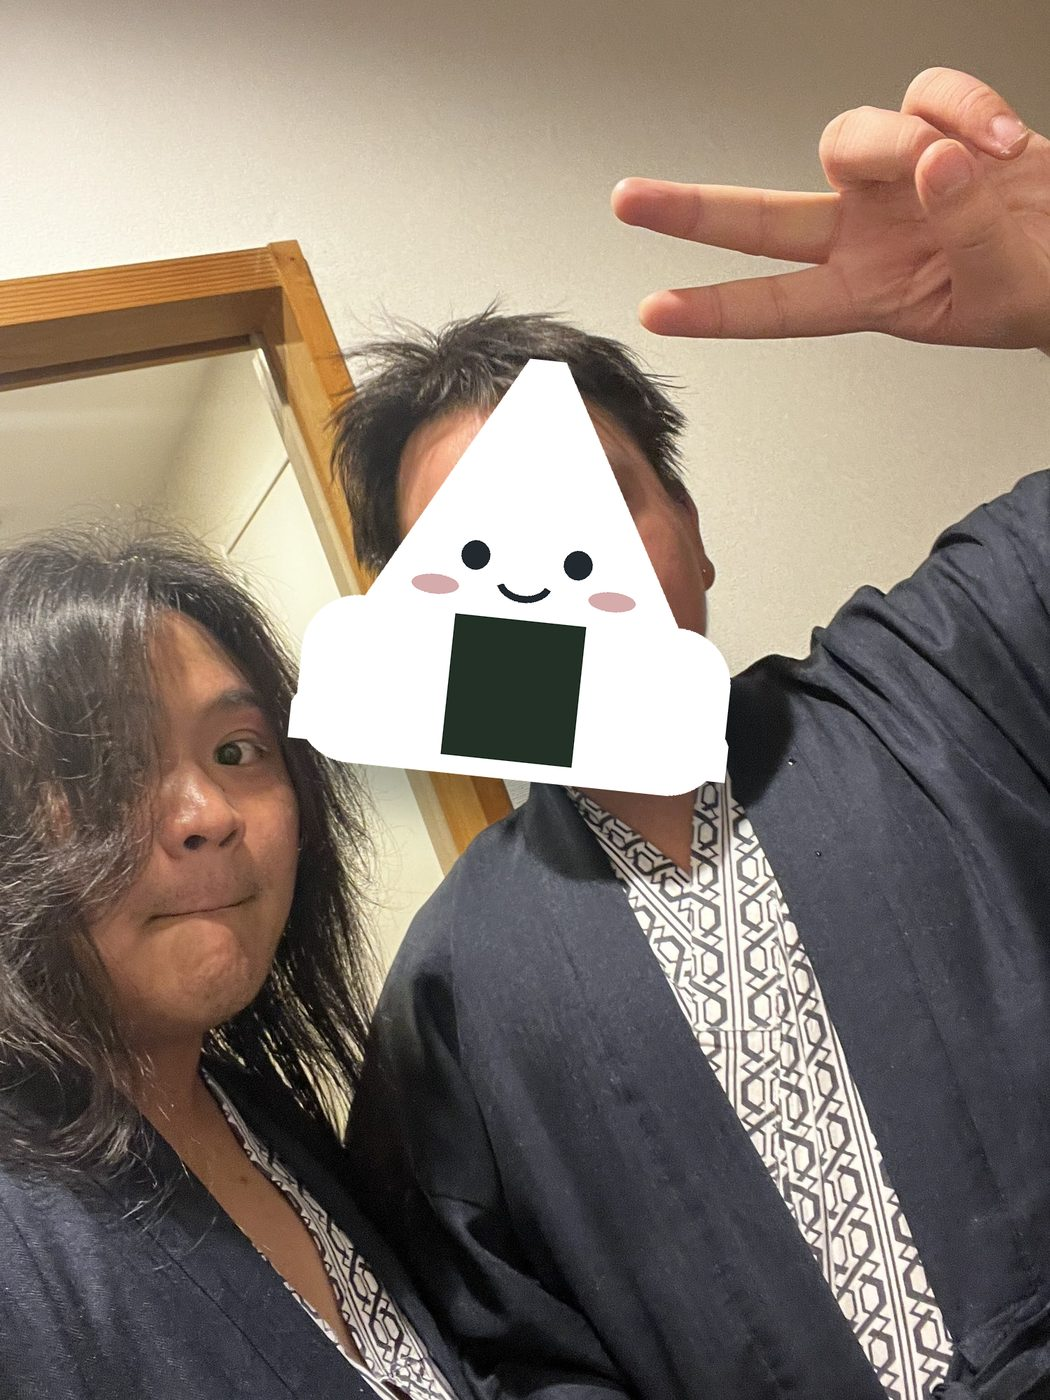
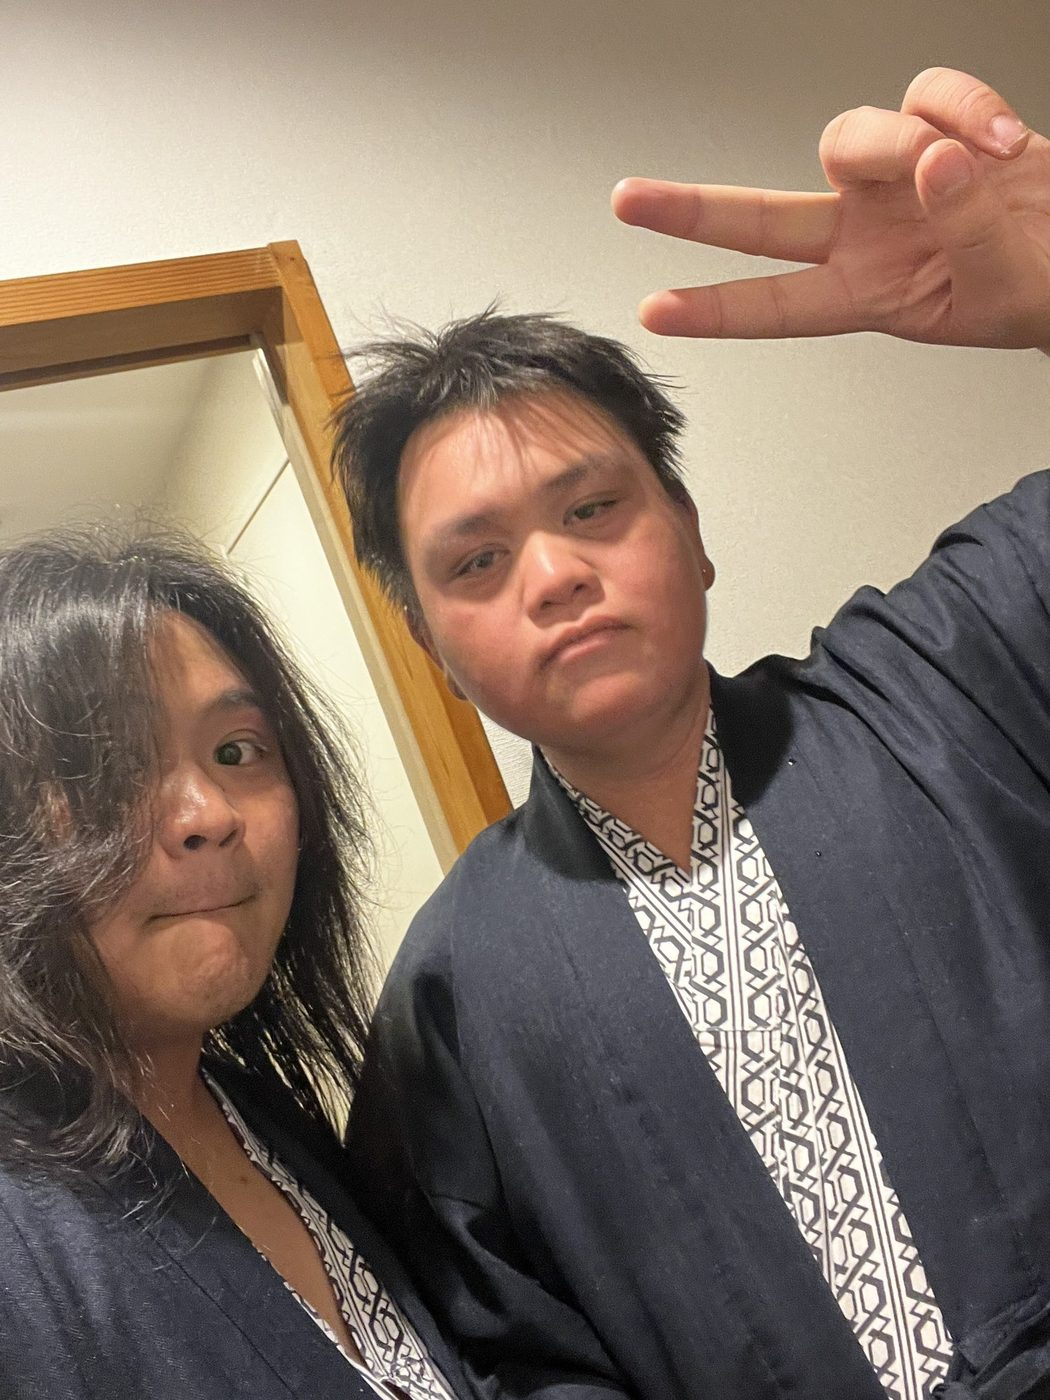
Journal: tell each new day with most of its photos (Oct 5, 7, 8, 9, 15); bystanders blurred, friends covered
Claude-Session: https://claude.ai/code/session_01VrQmsA3GYdpzdxj4nhi4R2

Changed region(s): [[0.2743, 0.2457, 0.701, 0.6143]]

diff --git a/_journal/2026-10-05-hakone-to-yamanaka.md b/_journal/2026-10-05-hakone-to-yamanaka.md
@@ -10,47 +10,68 @@ tape: mint
 cover: { src: /assets/images/journal/2026-10-05-hakone-to-yamanaka/oshino-hakkai.jpg, caption: "the water wheel at Oshino Hakkai" }
 timeline:
   - time: "5:24 am"
-    title: An early start
+    title: "An early start"
     photos:
       - { src: /assets/images/journal/2026-10-05-hakone-to-yamanaka/early-street.jpg, caption: "a quiet street at 5:24 am" }
+      - { src: /assets/images/journal/2026-10-05-hakone-to-yamanaka/p-1235.jpg, caption: "me, heading out", alt: "Selfie of Aldrich at dawn; a travel companion behind him has a sticker over his face" }
   - time: "7:00 am"
-    title: Tokyo Station
+    title: "Tokyo Station"
     photos:
       - { src: /assets/images/journal/2026-10-05-hakone-to-yamanaka/station-dome.jpg, caption: "looking up into the dome" }
+      - { src: /assets/images/journal/2026-10-05-hakone-to-yamanaka/p-1237.jpg, caption: "the dome, lit up" }
       - { src: /assets/images/journal/2026-10-05-hakone-to-yamanaka/me-at-tokyo-station.jpg, caption: "me, GoPro ready" }
   - time: "8:01 am"
-    title: On the bus
+    title: "On the bus"
     photos:
       - { src: /assets/images/journal/2026-10-05-hakone-to-yamanaka/bus-out.jpg, caption: "heading out of the city", alt: "Bus selfie of Aldrich with three travel companions, whose faces are covered with stickers" }
   - time: "10:35 am"
-    title: Lake Ashi
+    title: "Lake Ashi"
     photos:
       - { src: /assets/images/journal/2026-10-05-hakone-to-yamanaka/lake-ashi-pier.jpg, caption: "clouds sitting on the hills" }
+      - { src: /assets/images/journal/2026-10-05-hakone-to-yamanaka/p-1242.jpg, caption: "the pier" }
       - { src: /assets/images/journal/2026-10-05-hakone-to-yamanaka/torii-from-the-water.jpg, caption: "the red torii, from out on the water" }
   - time: "12:15 pm"
-    title: The ropeway
+    title: "The ropeway"
     photos:
+      - { src: /assets/images/journal/2026-10-05-hakone-to-yamanaka/p-1244.jpg, caption: "me at the window" }
       - { src: /assets/images/journal/2026-10-05-hakone-to-yamanaka/me-on-the-ropeway.jpg, caption: "me on the ropeway" }
       - { src: /assets/images/journal/2026-10-05-hakone-to-yamanaka/ropeway-tower.jpg, caption: "passing a tower" }
   - time: "12:58 pm"
-    title: Ōwakudani
+    title: "Ōwakudani"
     photos:
       - { src: /assets/images/journal/2026-10-05-hakone-to-yamanaka/owakudani.jpg, caption: "thumbs up at the Ōwakudani stone", alt: "Selfie of Aldrich and a travel companion, whose face is covered with a sticker, in front of a stone carved with 大涌谷" }
+      - { src: /assets/images/journal/2026-10-05-hakone-to-yamanaka/p-1248.jpg, caption: "one more, in the mist", alt: "Selfie of Aldrich and a travel companion with a sticker over his face" }
       - { src: /assets/images/journal/2026-10-05-hakone-to-yamanaka/black-egg.jpg, caption: "a black egg" }
   - time: "2:41 pm"
-    title: Lunch
+    title: "Lunch"
     photos:
       - { src: /assets/images/journal/2026-10-05-hakone-to-yamanaka/eel-lunch.jpg, caption: "eel over rice" }
-  - time: "4:27 pm"
-    title: Oshino Hakkai
+  - time: "4:23 pm"
+    title: "Oshino Hakkai"
     photos:
+      - { src: /assets/images/journal/2026-10-05-hakone-to-yamanaka/p-1251.jpg, caption: "the clear pond" }
+      - { src: /assets/images/journal/2026-10-05-hakone-to-yamanaka/p-1252.jpg, caption: "the thatched mill" }
       - { src: /assets/images/journal/2026-10-05-hakone-to-yamanaka/oshino-hakkai.jpg, video: /assets/images/journal/2026-10-05-hakone-to-yamanaka/oshino-hakkai.mp4, caption: "the water wheel" }
+      - { src: /assets/images/journal/2026-10-05-hakone-to-yamanaka/p-1254.jpg, caption: "the wheel from the bank" }
+      - { src: /assets/images/journal/2026-10-05-hakone-to-yamanaka/p-1255.jpg, caption: "weeds swaying in the spring water" }
+      - { src: /assets/images/journal/2026-10-05-hakone-to-yamanaka/p-1256.jpg, caption: "Mt. Fuji snowmelt, says the sign" }
       - { src: /assets/images/journal/2026-10-05-hakone-to-yamanaka/spring-fed-stream.jpg, caption: "the stream through the village" }
+      - { src: /assets/images/journal/2026-10-05-hakone-to-yamanaka/p-1258.jpg, caption: "the stream, further down" }
+      - { src: /assets/images/journal/2026-10-05-hakone-to-yamanaka/p-1259.jpg, caption: "green on both banks" }
   - time: "5:02 pm"
-    title: Swans on Lake Yamanaka
+    title: "Swans on Lake Yamanaka"
     photos:
+      - { src: /assets/images/journal/2026-10-05-hakone-to-yamanaka/p-1260.jpg, caption: "the shore at Lake Yamanaka" }
+      - { src: /assets/images/journal/2026-10-05-hakone-to-yamanaka/p-1261.jpg, caption: "the first swan" }
       - { src: /assets/images/journal/2026-10-05-hakone-to-yamanaka/lake-yamanaka.jpg, caption: "swans in the mist" }
+      - { src: /assets/images/journal/2026-10-05-hakone-to-yamanaka/p-1263.jpg, caption: "swans all along the shore" }
+      - { src: /assets/images/journal/2026-10-05-hakone-to-yamanaka/p-1264.jpg, caption: "the lake, up close" }
       - { src: /assets/images/journal/2026-10-05-hakone-to-yamanaka/swan.jpg, video: /assets/images/journal/2026-10-05-hakone-to-yamanaka/swan.mp4, caption: "one came right up to the shore" }
+      - { src: /assets/images/journal/2026-10-05-hakone-to-yamanaka/p-1266.jpg, caption: "two of them, close" }
+  - time: "7:42 pm"
+    title: "Back in Tokyo"
+    photos:
+      - { src: /assets/images/journal/2026-10-05-hakone-to-yamanaka/p-1267.jpg, caption: "a packed train home" }
 ---
 
-Day three of the Japan trip. An early start at Tokyo Station, then a bus out of the city for the whole day: Lake Ashi, the ropeway up to Ōwakudani, eel for lunch, the springs at Oshino Hakkai and, last, the swans on Lake Yamanaka. Low cloud followed us most of the day.
+Day three of the Japan trip. An early start at Tokyo Station, then a bus out of the city for the whole day: Lake Ashi, the ropeway up to Ōwakudani, eel for lunch, the springs at Oshino Hakkai and, last, the swans on Lake Yamanaka. Low cloud followed us most of the day, and it was a packed train back into Tokyo that night.

diff --git a/_journal/2026-10-07-teamlab.md b/_journal/2026-10-07-teamlab.md
@@ -7,29 +7,56 @@ where: "Toyosu, Tokyo"
 tape: blue
 cover: { src: /assets/images/journal/2026-10-07-teamlab/balloon-room.jpg, caption: "the balloon room" }
 timeline:
-  - time: "4:55 pm"
-    title: Under the lights
+  - time: "2:34 pm"
+    title: "Before heading out"
     photos:
-      - { src: /assets/images/journal/2026-10-07-teamlab/under-the-lights.jpg, caption: "me, under a ceiling of lights" }
+      - { src: /assets/images/journal/2026-10-07-teamlab/p-1333.jpg, caption: "checking the watch" }
+  - time: "3:29 pm"
+    title: "A card stop"
+    photos:
+      - { src: /assets/images/journal/2026-10-07-teamlab/p-1334.jpg, caption: "one card, bagged and priced" }
+  - time: "4:55 pm"
+    title: "Under the lights"
+    photos:
+      - { src: /assets/images/journal/2026-10-07-teamlab/under-the-lights.jpg, caption: "under a ceiling of lights" }
+      - { src: /assets/images/journal/2026-10-07-teamlab/p-1336.jpg, caption: "eyes wide" }
+      - { src: /assets/images/journal/2026-10-07-teamlab/p-1337.jpg, caption: "lights all around, crowds behind" }
+      - { src: /assets/images/journal/2026-10-07-teamlab/p-1339.jpg, caption: "looking up" }
+  - time: "4:56 pm"
+    title: "The pink room"
+    photos:
+      - { src: /assets/images/journal/2026-10-07-teamlab/p-1340.jpg, caption: "thumbs up" }
+      - { src: /assets/images/journal/2026-10-07-teamlab/p-1341.jpg, caption: "one more thumbs up" }
+      - { src: /assets/images/journal/2026-10-07-teamlab/p-1342.jpg, caption: "close up, in pink" }
+  - time: "4:58 pm"
+    title: "The mirror room"
+    photos:
       - { src: /assets/images/journal/2026-10-07-teamlab/mirror-room.jpg, video: /assets/images/journal/2026-10-07-teamlab/mirror-room.mp4, caption: "lights all the way down" }
   - time: "5:03 pm"
-    title: The koi floor
+    title: "The koi floor"
     photos:
       - { src: /assets/images/journal/2026-10-07-teamlab/koi-floor.jpg, caption: "koi on the floor" }
+      - { src: /assets/images/journal/2026-10-07-teamlab/p-1346.jpg, caption: "wading through it in the dark" }
   - time: "5:07 pm"
-    title: The balloon room
+    title: "The balloon room"
     photos:
       - { src: /assets/images/journal/2026-10-07-teamlab/balloon-room.jpg, caption: "balloons, top to bottom" }
-      - { src: /assets/images/journal/2026-10-07-teamlab/me-in-the-balloons.jpg, video: /assets/images/journal/2026-10-07-teamlab/me-in-the-balloons.mp4, caption: "me, lost in them" }
-  - time: "5:19 pm"
-    title: The flower room
+      - { src: /assets/images/journal/2026-10-07-teamlab/me-in-the-balloons.jpg, video: /assets/images/journal/2026-10-07-teamlab/me-in-the-balloons.mp4, caption: "lost in the balloons" }
+      - { src: /assets/images/journal/2026-10-07-teamlab/p-1350.jpg, caption: "the balloons turn blue" }
+      - { src: /assets/images/journal/2026-10-07-teamlab/p-1352.jpg, caption: "then green", alt: "A person in a green-lit balloon room, face covered with a sticker" }
+  - time: "5:18 pm"
+    title: "The flower room"
     photos:
+      - { src: /assets/images/journal/2026-10-07-teamlab/p-1356.jpg, caption: "flowers falling all around" }
+      - { src: /assets/images/journal/2026-10-07-teamlab/p-1357.jpg, caption: "in the dark with the flowers" }
+      - { src: /assets/images/journal/2026-10-07-teamlab/p-1358.jpg, caption: "flowers overhead" }
+      - { src: /assets/images/journal/2026-10-07-teamlab/p-1359.jpg, caption: "a flower on my forehead" }
       - { src: /assets/images/journal/2026-10-07-teamlab/me-in-the-flowers.jpg, caption: "me, among the flowers" }
   - time: "6:24 pm"
-    title: My snake
+    title: "My snake"
     photos:
       - { src: /assets/images/journal/2026-10-07-teamlab/my-snake.jpg, caption: "my snake, coloured in" }
       - { src: /assets/images/journal/2026-10-07-teamlab/snake-swimming.jpg, caption: "and there it goes, across the wall" }
 ---
 
-Day five of the Japan trip: an evening at teamLab Planets. The rooms were lights, mirrors, koi on the floor, a room packed with balloons and a room full of flowers. At the end I coloured in a snake, and it showed up swimming across the wall.
+Day five of the Japan trip: an evening at teamLab Planets. Room after room of light: a ceiling of lights, a pink room, mirrors, koi on the floor, a room packed with balloons that changed colour, and a dark room full of falling flowers. At the end I coloured in a snake, and it showed up swimming across the wall.

diff --git a/_journal/2026-10-09-shibuya.md b/_journal/2026-10-09-shibuya.md
@@ -7,24 +7,42 @@ where: "Shibuya, Tokyo"
 tape: pink
 cover: { src: /assets/images/journal/2026-10-09-shibuya/the-crossing.jpg, caption: "the crossing" }
 timeline:
+  - time: "9:29 am"
+    title: "Leaving Hakone"
+    photos:
+      - { src: /assets/images/journal/2026-10-09-shibuya/p-1377.jpg, caption: "a doodled wall at the ryokan" }
+      - { src: /assets/images/journal/2026-10-09-shibuya/p-1379.jpg, caption: "a railing through the green" }
+  - time: "11:56 am"
+    title: "Shinagawa"
+    photos:
+      - { src: /assets/images/journal/2026-10-09-shibuya/p-1383.jpg, caption: "a statue in a glass case" }
   - time: "1:04 pm"
-    title: The crossing
+    title: "The crossing"
     photos:
       - { src: /assets/images/journal/2026-10-09-shibuya/shibuya-skyline.jpg, caption: "blue sky over Shibuya" }
+      - { src: /assets/images/journal/2026-10-09-shibuya/p-1385.jpg, caption: "waiting at the lights" }
+      - { src: /assets/images/journal/2026-10-09-shibuya/p-1386.jpg, caption: "looking up" }
       - { src: /assets/images/journal/2026-10-09-shibuya/the-crossing.jpg, video: /assets/images/journal/2026-10-09-shibuya/the-crossing.mp4, caption: "the crossing" }
   - time: "3:06 pm"
-    title: Shops
+    title: "Shops"
     photos:
       - { src: /assets/images/journal/2026-10-09-shibuya/sega-store.jpg, caption: "the SEGA store" }
+      - { src: /assets/images/journal/2026-10-09-shibuya/p-1390.jpg, caption: "an arrow on display" }
+      - { src: /assets/images/journal/2026-10-09-shibuya/p-1391.jpg, caption: "a TV with tentacles" }
   - time: "4:16 pm"
-    title: Conveyor-belt sushi
+    title: "Conveyor-belt sushi"
     photos:
       - { src: /assets/images/journal/2026-10-09-shibuya/me-in-shibuya.jpg, caption: "me" }
       - { src: /assets/images/journal/2026-10-09-shibuya/conveyor-sushi.jpg, caption: "off the belt" }
+  - time: "5:34 pm"
+    title: "Sticker walls"
+    photos:
+      - { src: /assets/images/journal/2026-10-09-shibuya/p-1394.jpg, caption: "stickers on a lamp post" }
   - time: "8:47 pm"
-    title: Back with a new shirt
+    title: "Back with a new shirt"
     photos:
       - { src: /assets/images/journal/2026-10-09-shibuya/new-shirt.jpg, caption: "a new shirt, still in the bag" }
+      - { src: /assets/images/journal/2026-10-09-shibuya/p-1396.jpg, caption: "and the watch, still on" }
 ---
 
-Day seven of the Japan trip. From Hakone back into Tokyo for an afternoon in Shibuya: the crossing under a clear sky, the shops, and conveyor-belt sushi.
+Day seven of the Japan trip. From Hakone back into Tokyo, through Shinagawa, for an afternoon in Shibuya: the crossing under a clear sky, the shops, conveyor-belt sushi and the sticker-covered streets.

diff --git a/_journal/2026-10-08-ryokan.md b/_journal/2026-10-08-ryokan.md
@@ -7,20 +7,32 @@ where: "Hakone"
 tape: yellow
 cover: { src: /assets/images/journal/2026-10-08-ryokan/yukata-selfie.jpg, caption: "me, in a yukata" }
 timeline:
+  - time: "8:55 am"
+    title: "Breakfast on the go"
+    photos:
+      - { src: /assets/images/journal/2026-10-08-ryokan/p-1363.jpg, caption: "something sweet for the road" }
   - time: "4:54 pm"
-    title: Yukata on
+    title: "Yukata on"
     photos:
       - { src: /assets/images/journal/2026-10-08-ryokan/yukata-mirror.jpg, caption: "checking the fit" }
-      - { src: /assets/images/journal/2026-10-08-ryokan/yukata-selfie.jpg, caption: "me, in a yukata" }
+      - { src: /assets/images/journal/2026-10-08-ryokan/p-1368.jpg, caption: "me, in a yukata" }
+      - { src: /assets/images/journal/2026-10-08-ryokan/p-1369.jpg, caption: "one more" }
+      - { src: /assets/images/journal/2026-10-08-ryokan/yukata-selfie.jpg, caption: "and one more" }
   - time: "4:59 pm"
-    title: The whole crew
+    title: "The whole crew"
     photos:
       - { src: /assets/images/journal/2026-10-08-ryokan/yukata-crew.jpg, caption: "all four of us, in yukata", alt: "Four people in matching yukata in a ryokan room; Aldrich is on the right, and the other three faces are covered with stickers" }
-      - { src: /assets/images/journal/2026-10-08-ryokan/peace-sign.jpg, caption: "peace sign", alt: "Selfie of Aldrich and a travel companion in yukata; the companion's face is covered with a sticker" }
-  - time: "5:23 pm"
-    title: Winding down
+      - { src: /assets/images/journal/2026-10-08-ryokan/peace-sign.jpg, caption: "peace sign" }
+      - { src: /assets/images/journal/2026-10-08-ryokan/p-1372.jpg, caption: "the two of us" }
+  - time: "5:07 pm"
+    title: "Settling in"
     photos:
+      - { src: /assets/images/journal/2026-10-08-ryokan/p-1373.jpg, caption: "the room" }
       - { src: /assets/images/journal/2026-10-08-ryokan/card-game-on-tv.jpg, caption: "card game videos on the TV" }
+  - time: "5:34 pm"
+    title: "The lounge"
+    photos:
+      - { src: /assets/images/journal/2026-10-08-ryokan/p-1375.jpg, caption: "feet up in the lounge", alt: "Two travel companions in yukata in the ryokan lounge, faces covered with stickers, with a tablet in the foreground" }
 ---
 
-Day six of the Japan trip. An evening at the ryokan in Hakone, with all four of us in yukata.
+Day six of the Japan trip. An evening at the ryokan in Hakone, with all four of us in yukata, then feet up in the lounge.

diff --git a/_journal/2026-10-15-last-night.md b/_journal/2026-10-15-last-night.md
@@ -19,6 +19,10 @@ timeline:
     title: Akihabara at night
     photos:
       - { src: /assets/images/journal/2026-10-15-last-night/akihabara-at-night.jpg, caption: "lights up" }
+  - time: "7:33 pm"
+    title: "One last poster"
+    photos:
+      - { src: /assets/images/journal/2026-10-15-last-night/p-1625.jpg, caption: "a poster for a new game" }
 ---
 
 Day thirteen, the last full day of the Japan trip, spent back in Akihabara.
